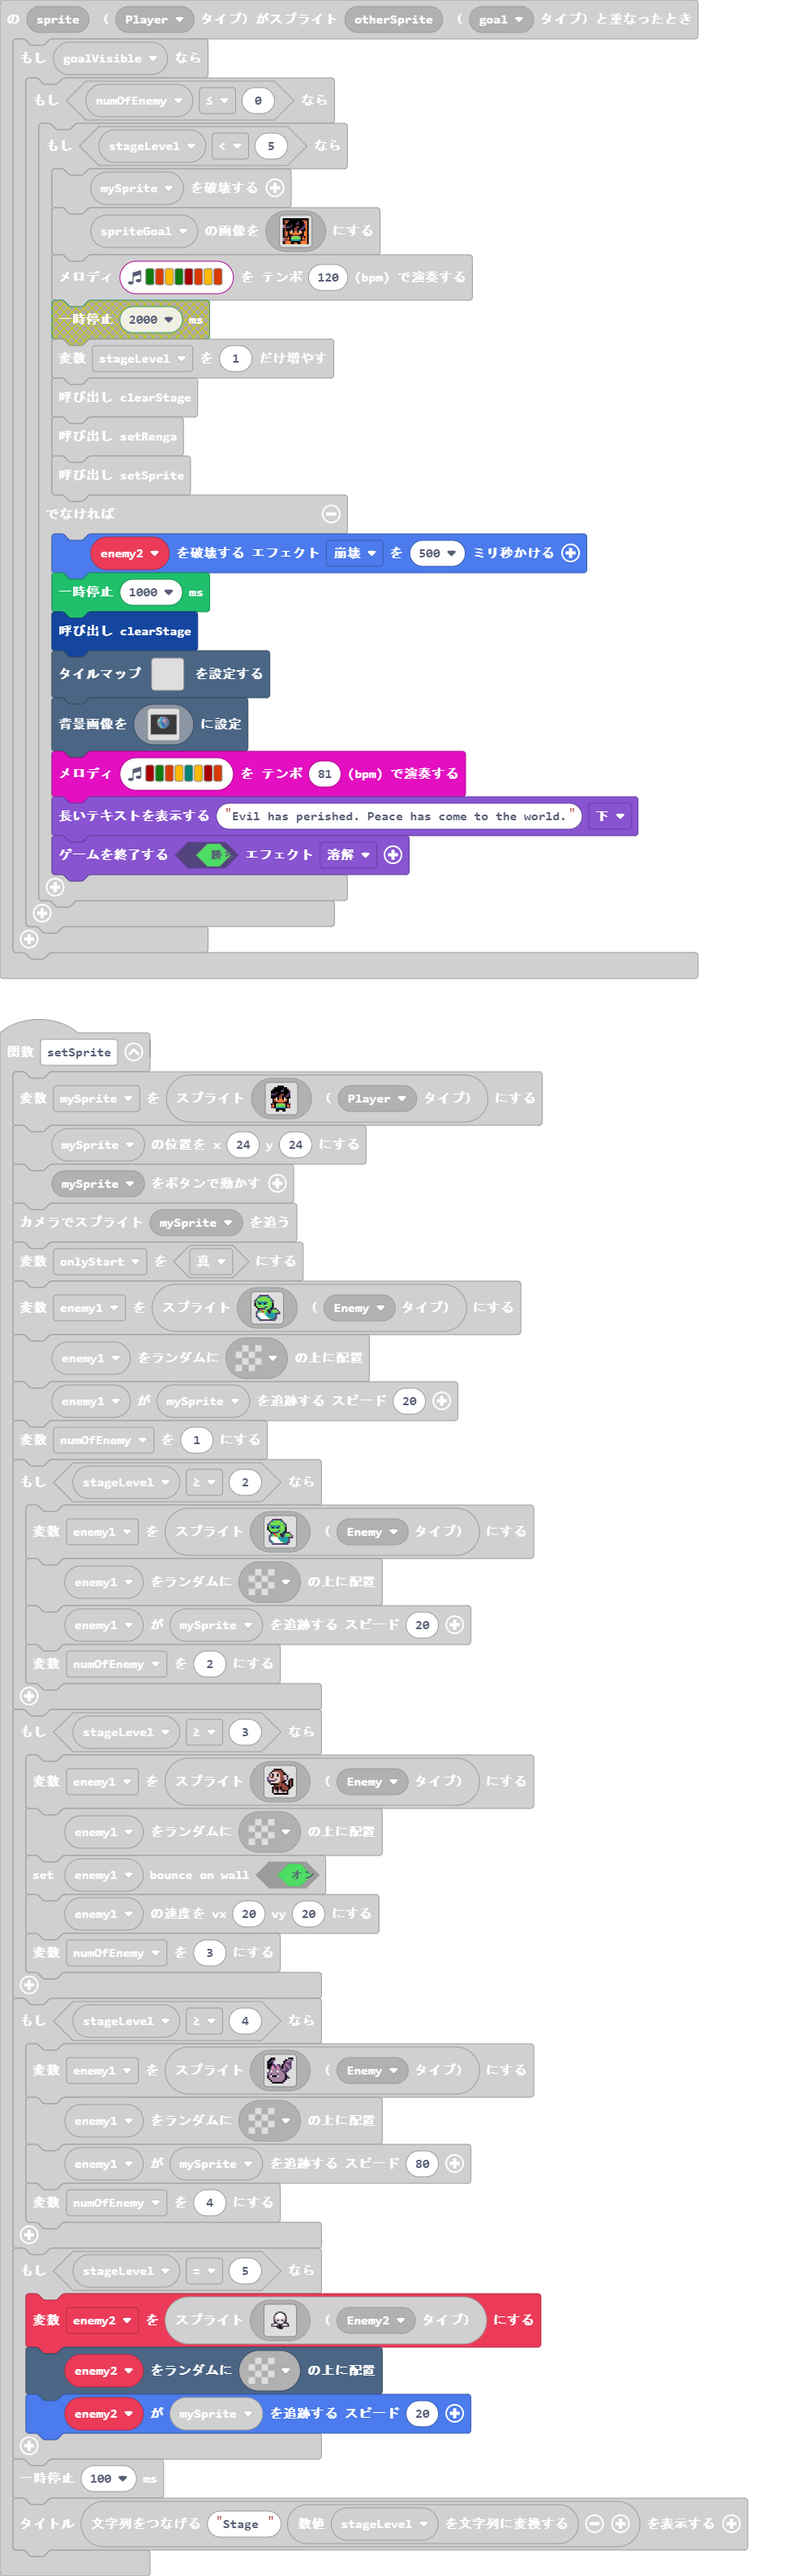
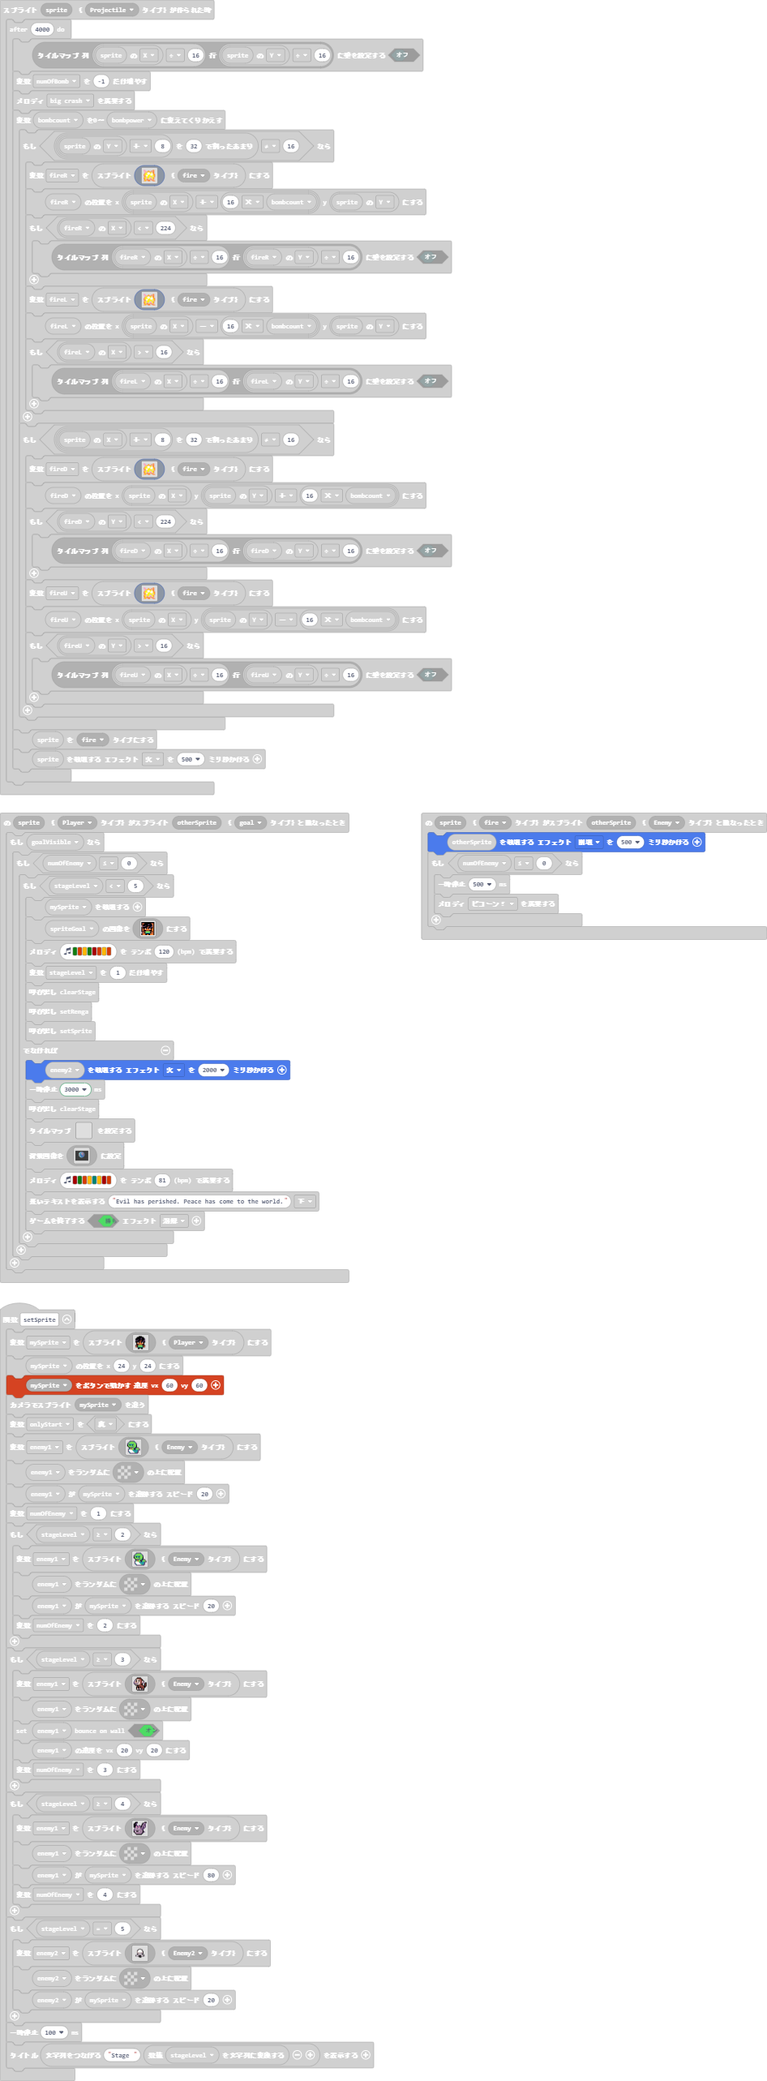
更新 main.blocks, main.ts

diff --git a/main.ts b/main.ts
@@ -111,7 +111,7 @@ function setSprite () {
         . . . f f . . f f . . . . 
         `, SpriteKind.Player)
     mySprite.setPosition(24, 24)
-    controller.moveSprite(mySprite)
+    controller.moveSprite(mySprite, 60, 60)
     scene.cameraFollowSprite(mySprite)
     onlyStart = true
     enemy1 = sprites.create(img`
@@ -312,7 +312,7 @@ sprites.onCreated(SpriteKind.fire, function (sprite) {
     })
 })
 sprites.onOverlap(SpriteKind.fire, SpriteKind.Enemy, function (sprite, otherSprite) {
-    otherSprite.destroy()
+    otherSprite.destroy(effects.disintegrate, 500)
     if (numOfEnemy <= 0) {
         pause(500)
         music.baDing.play()
@@ -651,8 +651,8 @@ sprites.onOverlap(SpriteKind.Player, SpriteKind.goal, function (sprite, otherSpr
                 setRenga()
                 setSprite()
             } else {
-                enemy2.destroy(effects.disintegrate, 500)
-                pause(1000)
+                enemy2.destroy(effects.fire, 2000)
+                pause(3000)
                 clearStage()
                 tiles.setTilemap(tilemap`レベル11`)
                 scene.setBackgroundImage(img`
@@ -818,7 +818,7 @@ sprites.onCreated(SpriteKind.Projectile, function (sprite) {
         for (let bombcount = 0; bombcount <= bombpower; bombcount++) {
             if ((sprite.y + 8) % 32 != 16) {
                 fireR = sprites.create(img`
-                    . 3 . . . . . . . . . . . 4 . . 
+                    . . . . . . . . . . . . . . . . 
                     . 3 3 . . . . . . . . . 4 4 . . 
                     . 3 d 3 . . 4 4 . . 4 4 d 4 . . 
                     . . 3 5 3 4 5 5 4 4 d d 4 4 . . 
@@ -831,16 +831,16 @@ sprites.onCreated(SpriteKind.Projectile, function (sprite) {
                     . 4 5 5 d 5 5 5 d d d 5 5 4 . . 
                     . 4 5 5 d 3 5 d d 3 d 5 5 4 . . 
                     . 4 4 d d 4 d d d 4 3 d d 4 . . 
-                    . . 4 5 4 4 4 4 4 4 4 4 4 . . . 
-                    . 4 5 4 . . 4 4 4 . . . 4 4 . . 
-                    . 4 4 . . . . . . . . . . 4 4 . 
+                    . . 4 5 4 4 4 4 4 . 4 4 4 . . . 
+                    . 4 5 4 . . 4 4 4 . . . 4 4 4 . 
+                    . . . . . . . . . . . . . . . . 
                     `, SpriteKind.fire)
                 fireR.setPosition(sprite.x + 16 * bombcount, sprite.y)
                 if (fireR.x < 224) {
                     tiles.setWallAt(tiles.getTileLocation(fireR.x / 16, fireR.y / 16), false)
                 }
                 fireL = sprites.create(img`
-                    . 3 . . . . . . . . . . . 4 . . 
+                    . . . . . . . . . . . . . . . . 
                     . 3 3 . . . . . . . . . 4 4 . . 
                     . 3 d 3 . . 4 4 . . 4 4 d 4 . . 
                     . . 3 5 3 4 5 5 4 4 d d 4 4 . . 
@@ -853,9 +853,9 @@ sprites.onCreated(SpriteKind.Projectile, function (sprite) {
                     . 4 5 5 d 5 5 5 d d d 5 5 4 . . 
                     . 4 5 5 d 3 5 d d 3 d 5 5 4 . . 
                     . 4 4 d d 4 d d d 4 3 d d 4 . . 
-                    . . 4 5 4 4 4 4 4 4 4 4 4 . . . 
-                    . 4 5 4 . . 4 4 4 . . . 4 4 . . 
-                    . 4 4 . . . . . . . . . . 4 4 . 
+                    . . 4 5 4 4 4 4 4 . 4 4 4 . . . 
+                    . 4 5 4 . . 4 4 4 . . . 4 4 4 . 
+                    . . . . . . . . . . . . . . . . 
                     `, SpriteKind.fire)
                 fireL.setPosition(sprite.x - 16 * bombcount, sprite.y)
                 if (fireL.x > 16) {
@@ -864,7 +864,7 @@ sprites.onCreated(SpriteKind.Projectile, function (sprite) {
             }
             if ((sprite.x + 8) % 32 != 16) {
                 fireD = sprites.create(img`
-                    . 3 . . . . . . . . . . . 4 . . 
+                    . . . . . . . . . . . . . . . . 
                     . 3 3 . . . . . . . . . 4 4 . . 
                     . 3 d 3 . . 4 4 . . 4 4 d 4 . . 
                     . . 3 5 3 4 5 5 4 4 d d 4 4 . . 
@@ -877,16 +877,16 @@ sprites.onCreated(SpriteKind.Projectile, function (sprite) {
                     . 4 5 5 d 5 5 5 d d d 5 5 4 . . 
                     . 4 5 5 d 3 5 d d 3 d 5 5 4 . . 
                     . 4 4 d d 4 d d d 4 3 d d 4 . . 
-                    . . 4 5 4 4 4 4 4 4 4 4 4 . . . 
-                    . 4 5 4 . . 4 4 4 . . . 4 4 . . 
-                    . 4 4 . . . . . . . . . . 4 4 . 
+                    . . 4 5 4 4 4 4 4 . 4 4 4 . . . 
+                    . 4 5 4 . . 4 4 4 . . . 4 4 4 . 
+                    . . . . . . . . . . . . . . . . 
                     `, SpriteKind.fire)
                 fireD.setPosition(sprite.x, sprite.y + 16 * bombcount)
                 if (fireD.y < 224) {
                     tiles.setWallAt(tiles.getTileLocation(fireD.x / 16, fireD.y / 16), false)
                 }
                 fireU = sprites.create(img`
-                    . 3 . . . . . . . . . . . 4 . . 
+                    . . . . . . . . . . . . . . . . 
                     . 3 3 . . . . . . . . . 4 4 . . 
                     . 3 d 3 . . 4 4 . . 4 4 d 4 . . 
                     . . 3 5 3 4 5 5 4 4 d d 4 4 . . 
@@ -899,9 +899,9 @@ sprites.onCreated(SpriteKind.Projectile, function (sprite) {
                     . 4 5 5 d 5 5 5 d d d 5 5 4 . . 
                     . 4 5 5 d 3 5 d d 3 d 5 5 4 . . 
                     . 4 4 d d 4 d d d 4 3 d d 4 . . 
-                    . . 4 5 4 4 4 4 4 4 4 4 4 . . . 
-                    . 4 5 4 . . 4 4 4 . . . 4 4 . . 
-                    . 4 4 . . . . . . . . . . 4 4 . 
+                    . . 4 5 4 4 4 4 4 . 4 4 4 . . . 
+                    . 4 5 4 . . 4 4 4 . . . 4 4 4 . 
+                    . . . . . . . . . . . . . . . . 
                     `, SpriteKind.fire)
                 fireU.setPosition(sprite.x, sprite.y - 16 * bombcount)
                 if (fireU.y > 16) {
